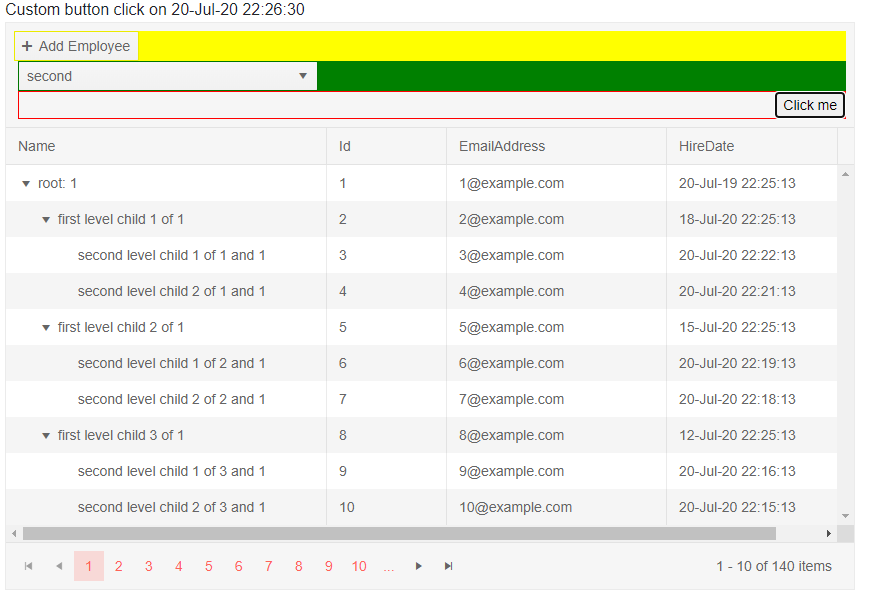
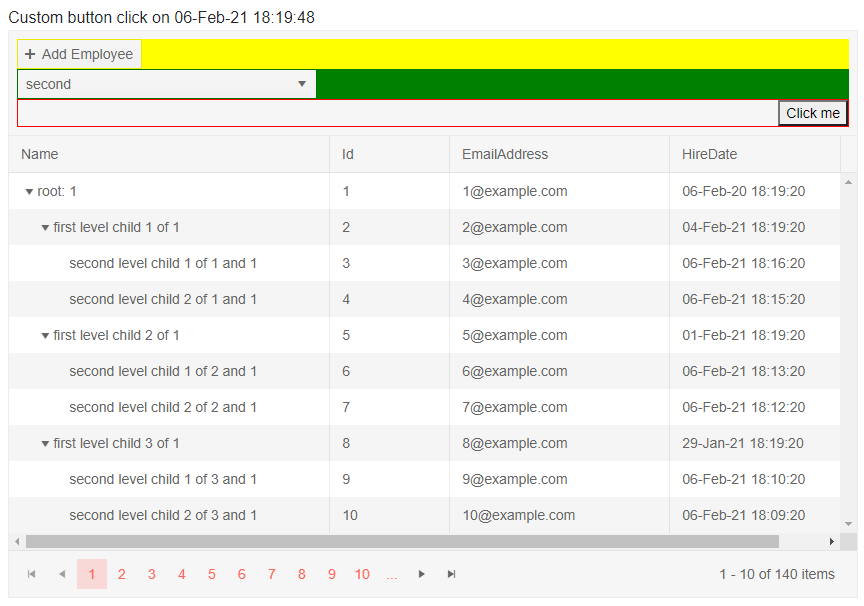
chore(treelist): fix custom toolbar layotu for flex

diff --git a/components/treelist/toolbar.md b/components/treelist/toolbar.md
@@ -158,15 +158,24 @@ You can add your own HTML and components to create a more complex layout in the 
 <TelerikTreeList Data="@Data" Pageable="true" ItemsField="@(nameof(Employee.DirectReports))" Width="850px">
 
     <TreeListToolBar>
-        <div style="background:yellow">
-            <TreeListCommandButton Command="Add" Icon="add">Add Employee</TreeListCommandButton>
-        </div>
-        <div style="background: green;">
-            <TelerikDropDownList Data="@( new List<string>() { "first", "second", "third" } )" TValue="string" TItem="string" ValueChanged="@( (string itm) => result = itm )"></TelerikDropDownList>
-        </div>
-        <div style="border: 1px solid red;">
-            <div style="float:right;"><button @onclick="@( () => result = $"Custom button click on {DateTime.Now}"  )">Click me</button></div>
-            <div style="clear:both;"></div>
+        <div style="display: block; flex-grow: 1;">
+            @* the first level children in the toolbar get display: inline-flex and flex-shrink: 0 inherited from the grid,
+            we change it here to show we can, or you can work with the layout the grid defines if it suits your needs *@
+
+            <div style="background:yellow">
+                <TreeListCommandButton Command="Add" Icon="add">Add Employee</TreeListCommandButton>
+            </div>
+            <div style="background: green;">
+                <TelerikDropDownList Data="@( new List<string>() { "first", "second", "third" } )" TValue="string" TItem="string" ValueChanged="@( (string itm) => result = itm )"></TelerikDropDownList>
+            </div>
+
+            @* one example of aligning content to the right with flex *@
+            <div style="border: 1px solid red; justify-content: end;">
+                <button style="display: flex; margin-left: auto;"
+                        @onclick="@( () => result = $"Custom button click on {DateTime.Now}"  )">
+                    Click me
+                </button>
+            </div>
         </div>
     </TreeListToolBar>
 
@@ -259,8 +268,22 @@ You can add your own HTML and components to create a more complex layout in the 
         }
 
         return await Task.FromResult(data);
+    }    //in a real case, keep the models in dedicated locations, this is just an easy to copy and see example
+    public class SampleData
+    {
+        public int ID { get; set; }
+        public string Name { get; set; }
+        public DateTime HireDate { get; set; }
     }
 
+    public List<SampleData> MyData = Enumerable.Range(1, 50).Select(
+        x => new SampleData
+        {
+            ID = x,
+            Name = "name " + x,
+            HireDate = DateTime.Now.AddDays(-x)
+        }).ToList();
+}
 ````
 
 >caption The result from the code snippet above, after changing the dropdown and clicking the custom button.

diff --git a/components/grid/toolbar.md b/components/grid/toolbar.md
@@ -214,7 +214,7 @@ You can add your own HTML and components to create a more complex layout in the 
 <TelerikGrid Data=@MyData Pageable="true" PageSize="15" EditMode="@GridEditMode.Inline" Height="500px" OnCreate="@CreateHandler">
 
     <GridToolBar>
-        <div class="block-display" style="display: block; flex-grow: 1;">
+        <div style="display: block; flex-grow: 1;">
             @* the first level children in the toolbar get display: inline-flex and flex-shrink: 0 inherited from the grid,
                 we change it here to show we can, or you can work with the layout the grid defines if it suits your needs *@
 
